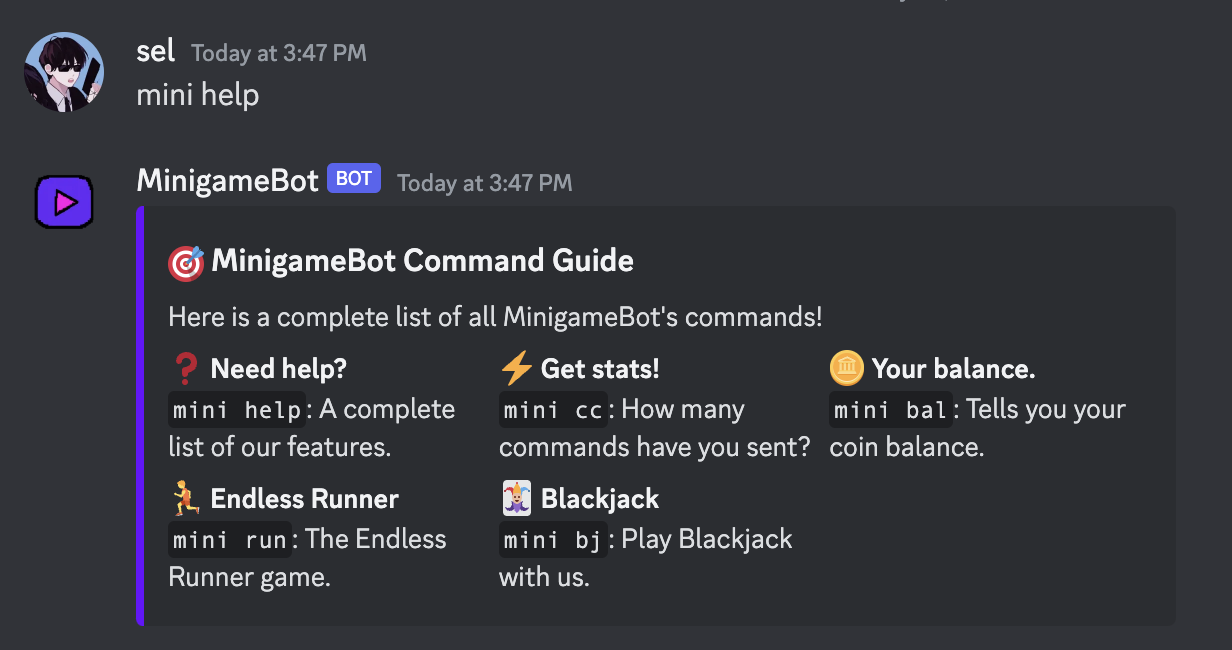
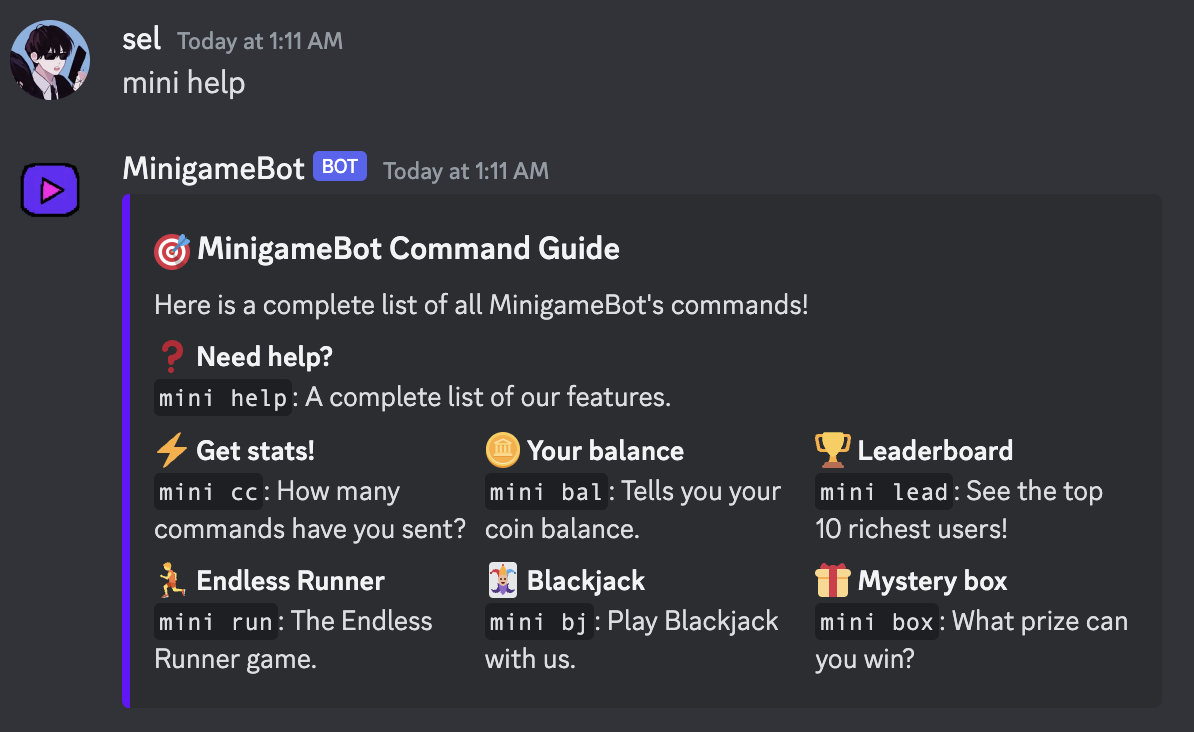
updated mini help

diff --git a/main.py b/main.py
@@ -1,5 +1,5 @@
 """
-MinigameBot: Discord bot with different mini games.
+MinigameBot: Discord bot with different mini-games.
 
 Selena Zhou, May 2023
 """
@@ -33,7 +33,6 @@ firebase_admin.initialize_app(cred)
 
 db = firestore.client()
 
-"""FUNCTIONS"""
 
 """FIRESTORE FUNCTIONS"""
 
@@ -107,9 +106,9 @@ def embed_mini_help():
                           description="Here is a complete list of all MinigameBot's commands!",
                           colour=discord.Colour.from_rgb(106, 13, 255))
     embed.add_field(name=":question: Need help?", value="`mini help`: A complete list of our features.", inline=False)
-    embed.add_field(name=":trophy: Leaderboard", value="`mini lead`: See the top 10 richest users!")
     embed.add_field(name=":zap: Get stats!", value="`mini cc`: How many commands have you sent?")
     embed.add_field(name=":coin: Your balance", value="`mini bal`: Tells you your coin balance.")
+    embed.add_field(name=":trophy: Leaderboard", value="`mini lead`: See the top 10 richest users!")
     embed.add_field(name=":person_running: Endless Runner", value="`mini run`: The Endless Runner game.")
     embed.add_field(name=":black_joker: Blackjack", value="`mini bj`: Play Blackjack with us.")
     embed.add_field(name=':gift: Mystery box', value='`mini box`: What prize can you win?')
